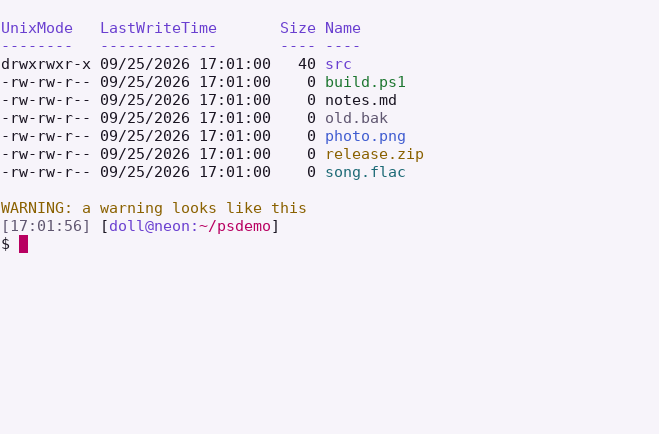
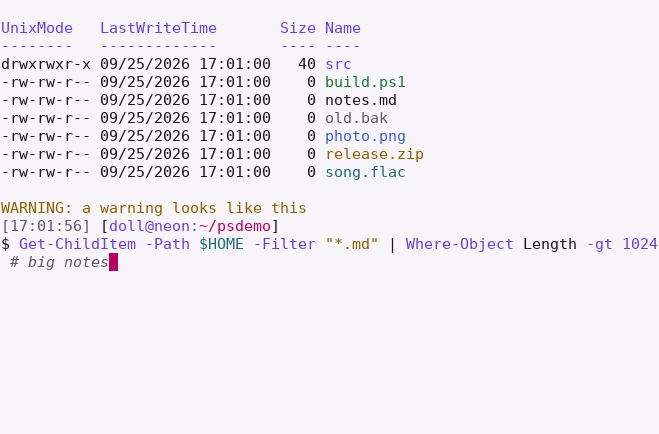
Screenshot tools: cover every input, and make the shots reproducible
- The git shot's diff keeps its colors through head, and its scratch repo
  ignores the user's git config, so commit signing can't change its hashes.
- Plasma and COSMIC show a copy of the repo with a fixed history
  (tools/scene-repo.sh), not the checkout's branches, untracked files and
  dates; their inputs now include dircolors, the gitconfig and install.sh.
- The Shell starts Text Editor before Calculator, so Calculator is always
  in front; its inputs are the Shell themes alone, and VS Code's leave out
  its README.
- A shot's hash covers its own entry and is taken before it runs.
- PowerShell types a command line again, for PSReadLine's colors; Ghostty's
  path is pink again, with . and ..; the palette's black label is readable.
- A text view in a scrolled window in a frame gets the focus ring too.

Changed region(s): [[0.0, 0.5392, 0.3642, 0.629], [0.3945, 0.5392, 0.8801, 0.5991], [0.9105, 0.5392, 1.0, 0.5691]]

diff --git a/gtk-4.0/gtk.css b/gtk-4.0/gtk.css
@@ -524,7 +524,8 @@ entry:focus-within, spinbutton:focus-within {
 /* A text view in a frame is a field, and takes the ring inside the frame,
    which would clip it on the edge. One filling a window is a document,
    which shows where it is by its caret alone. */
-frame > textview:focus-within, scrolledwindow.frame > textview:focus-within {
+frame > textview:focus-within, scrolledwindow.frame > textview:focus-within,
+frame > scrolledwindow > textview:focus-within {
   outline: 2px solid var(--pink);
   outline-offset: -2px;
 }

diff --git a/tools/screenshots.py b/tools/screenshots.py
@@ -25,7 +25,7 @@ import shutil
 import subprocess
 import sys
 import tempfile
-from dataclasses import dataclass, field
+from dataclasses import dataclass
 from pathlib import Path
 
 ROOT = Path(__file__).resolve().parent.parent
@@ -45,7 +45,6 @@ class Shot:
     per_variant: bool = False
     # Cropped from the top left to WxH.
     crop: tuple = None
-    extra: dict = field(default_factory=dict)
 
 
 def both(pattern):
@@ -67,7 +66,8 @@ SHOTS = {
                   {f"shell-{scene}-{{v}}.png": f"{n}.png"
                    for scene, n in (("overview", "08-overview"), ("calendar", "03-calendar"),
                                     ("quick-settings", "04-quick-settings"))},
-                  ["gnome-shell/**", "themes/**", "gtk-4.0/gtk.css", "gtksourceview/*.xml",
+                  ["gnome-shell/**", "themes/Neon-Doll-Dark/gnome-shell/**",
+                   "themes/Neon-Doll-Light/gnome-shell/**", "gtk-4.0/gtk.css", "gtksourceview/*.xml",
                    "tools/check-tokens.py", "tools/shoot-shell.sh"],
                   per_variant=True),
     "text-editor": Shot(["tools/text-editor-shoot.sh", "{out}"], both("text-editor-{v}.png"),
@@ -77,7 +77,7 @@ SHOTS = {
                   ["emacs/*.el", "tools/scheme-shoot.sh", "tools/scheme-emacs-sample.el"],
                   per_variant=True),
     "vscode": Shot(["tools/vscode-shoot.py", "{v}", "{out}/vscode-{v}.png"], both("vscode-{v}.png"),
-                   ["vscode/**", "tools/build-vscode.py", "tools/vscode-shoot.py"], per_variant=True),
+                   ["vscode/package.json", "vscode/themes/*", "tools/build-vscode.py", "tools/vscode-shoot.py"], per_variant=True),
     "chrome": Shot(["tools/chrome-shoot.py", "{v}", "{out}/chrome-{v}.png"], both("chrome-{v}.png"),
                    ["chrome/**", "tools/chrome-shoot.py"], per_variant=True),
     "firefox": Shot(["tools/firefox-shoot.py", "{v}", "{out}/firefox-{v}.png"], both("firefox-{v}.png"),
@@ -93,12 +93,13 @@ SHOTS = {
                     ["ghostty/themes/*", "dircolors/*", "tools/ghostty-shoot.sh"]),
     "cosmic": Shot(["tools/cosmic-shoot.sh", "{out}", "dark", "light"],
                    {**both("cosmic-desktop-{v}.png"), **both("cosmic-settings-{v}.png")},
-                   ["cosmic/**", "tilix/*.json", "dircolors/*", "tools/cosmic-shoot.sh",
-                    "tools/cosmic-scene.sh"]),
+                   ["cosmic/**", "dircolors/*", "git/*", "tools/cosmic-shoot.sh",
+                    "tools/cosmic-scene.sh", "tools/scene-repo.sh"]),
     "plasma": Shot(["tools/kde-shoot.sh", "{out}", "dark", "light"],
                    {**both("plasma-desktop-{v}.png"), **both("plasma-kate-{v}.png"),
                     **both("plasma-widgets-{v}.png"), **both("plasma-settings-{v}.png")},
-                   ["kde/**", "tools/kde-shoot.sh"]),
+                   ["kde/**", "dircolors/*", "git/*", "install.sh", "tools/kde-shoot.sh",
+                    "tools/scene-repo.sh"]),
     "cursors": Shot(["tools/build-cursor.py", "--sheet", "{out}/cursors.png"], {"cursors.png": "cursors.png"},
                     ["cursor/src/*.svg", "tools/build-cursor.py"]),
 }
@@ -125,6 +126,8 @@ def inputs(shot):
 
 def digest(shot):
     h = hashlib.sha256()
+    # How it's taken counts too: a new crop or argument changes the picture.
+    h.update(repr((shot.command, shot.files, shot.per_variant, shot.crop)).encode() + b"\0")
     for path in inputs(shot):
         h.update(str(path.relative_to(ROOT)).encode() + b"\0")
         h.update(path.read_bytes() + b"\0")
@@ -163,6 +166,8 @@ def check():
 def make(name):
     from PIL import Image
     shot = SHOTS[name]
+    # Before the shot: an edit made while it runs isn't in the picture.
+    made = digest(shot)
     with tempfile.TemporaryDirectory() as tmp:
         # A shot run once per variant gets a directory per variant, since
         # some write the same names for each.
@@ -183,7 +188,7 @@ def make(name):
                     picture = picture.crop((0, 0, *shot.crop))
                 picture.save(SHOTS_DIR / dest.format(v=v), optimize=True)
     sources = recorded()
-    sources[name] = digest(shot)
+    sources[name] = made
     SOURCES.write_text(json.dumps(dict(sorted(sources.items())), indent=2) + "\n")
     print(f"made {name}: {', '.join(names(shot))}")
 

diff --git a/CONTRIBUTING.md b/CONTRIBUTING.md
@@ -70,7 +70,8 @@ tools/dist.sh [VERSION]                           # release archives into dist/
 Every picture in `screenshots/` is made by `tools/screenshots.py NAME...`
 (`--list` names them, `--all` makes them all): it runs the shot's tool,
 crops the pictures to their size and records a hash of what the shot shows,
-its theme files and its tools, in `screenshots/sources.json`.
+its theme files and its tools, and of how it's taken, in
+`screenshots/sources.json`.
 `tools/screenshots.py --check`, in CI, fails when a shot's inputs have
 changed since it was made, so a change to the theme brings its screenshots
 with it; and when a picture is made by no shot. The tools below are what it
@@ -91,7 +92,8 @@ against Roundcube's Elastic sources, which it fetches once into
 `~/.cache/neon-doll`; without either, it leaves the committed CSS alone and
 says so. `tools/roundcube-shoot.py` needs docker and Chrome,
 and `tools/cosmic-shoot.sh` and `tools/kde-shoot.sh` docker alone; those
-two build a Fedora image with their desktop. `KDE_SHOOT_PREVIEWS=1
+two build a Fedora image with their desktop, and show a copy of the repo
+with a fixed history (`tools/scene-repo.sh`), not your checkout. `KDE_SHOOT_PREVIEWS=1
 tools/kde-shoot.sh` also redraws the global themes' preview images from the
 desktop shot.
 
